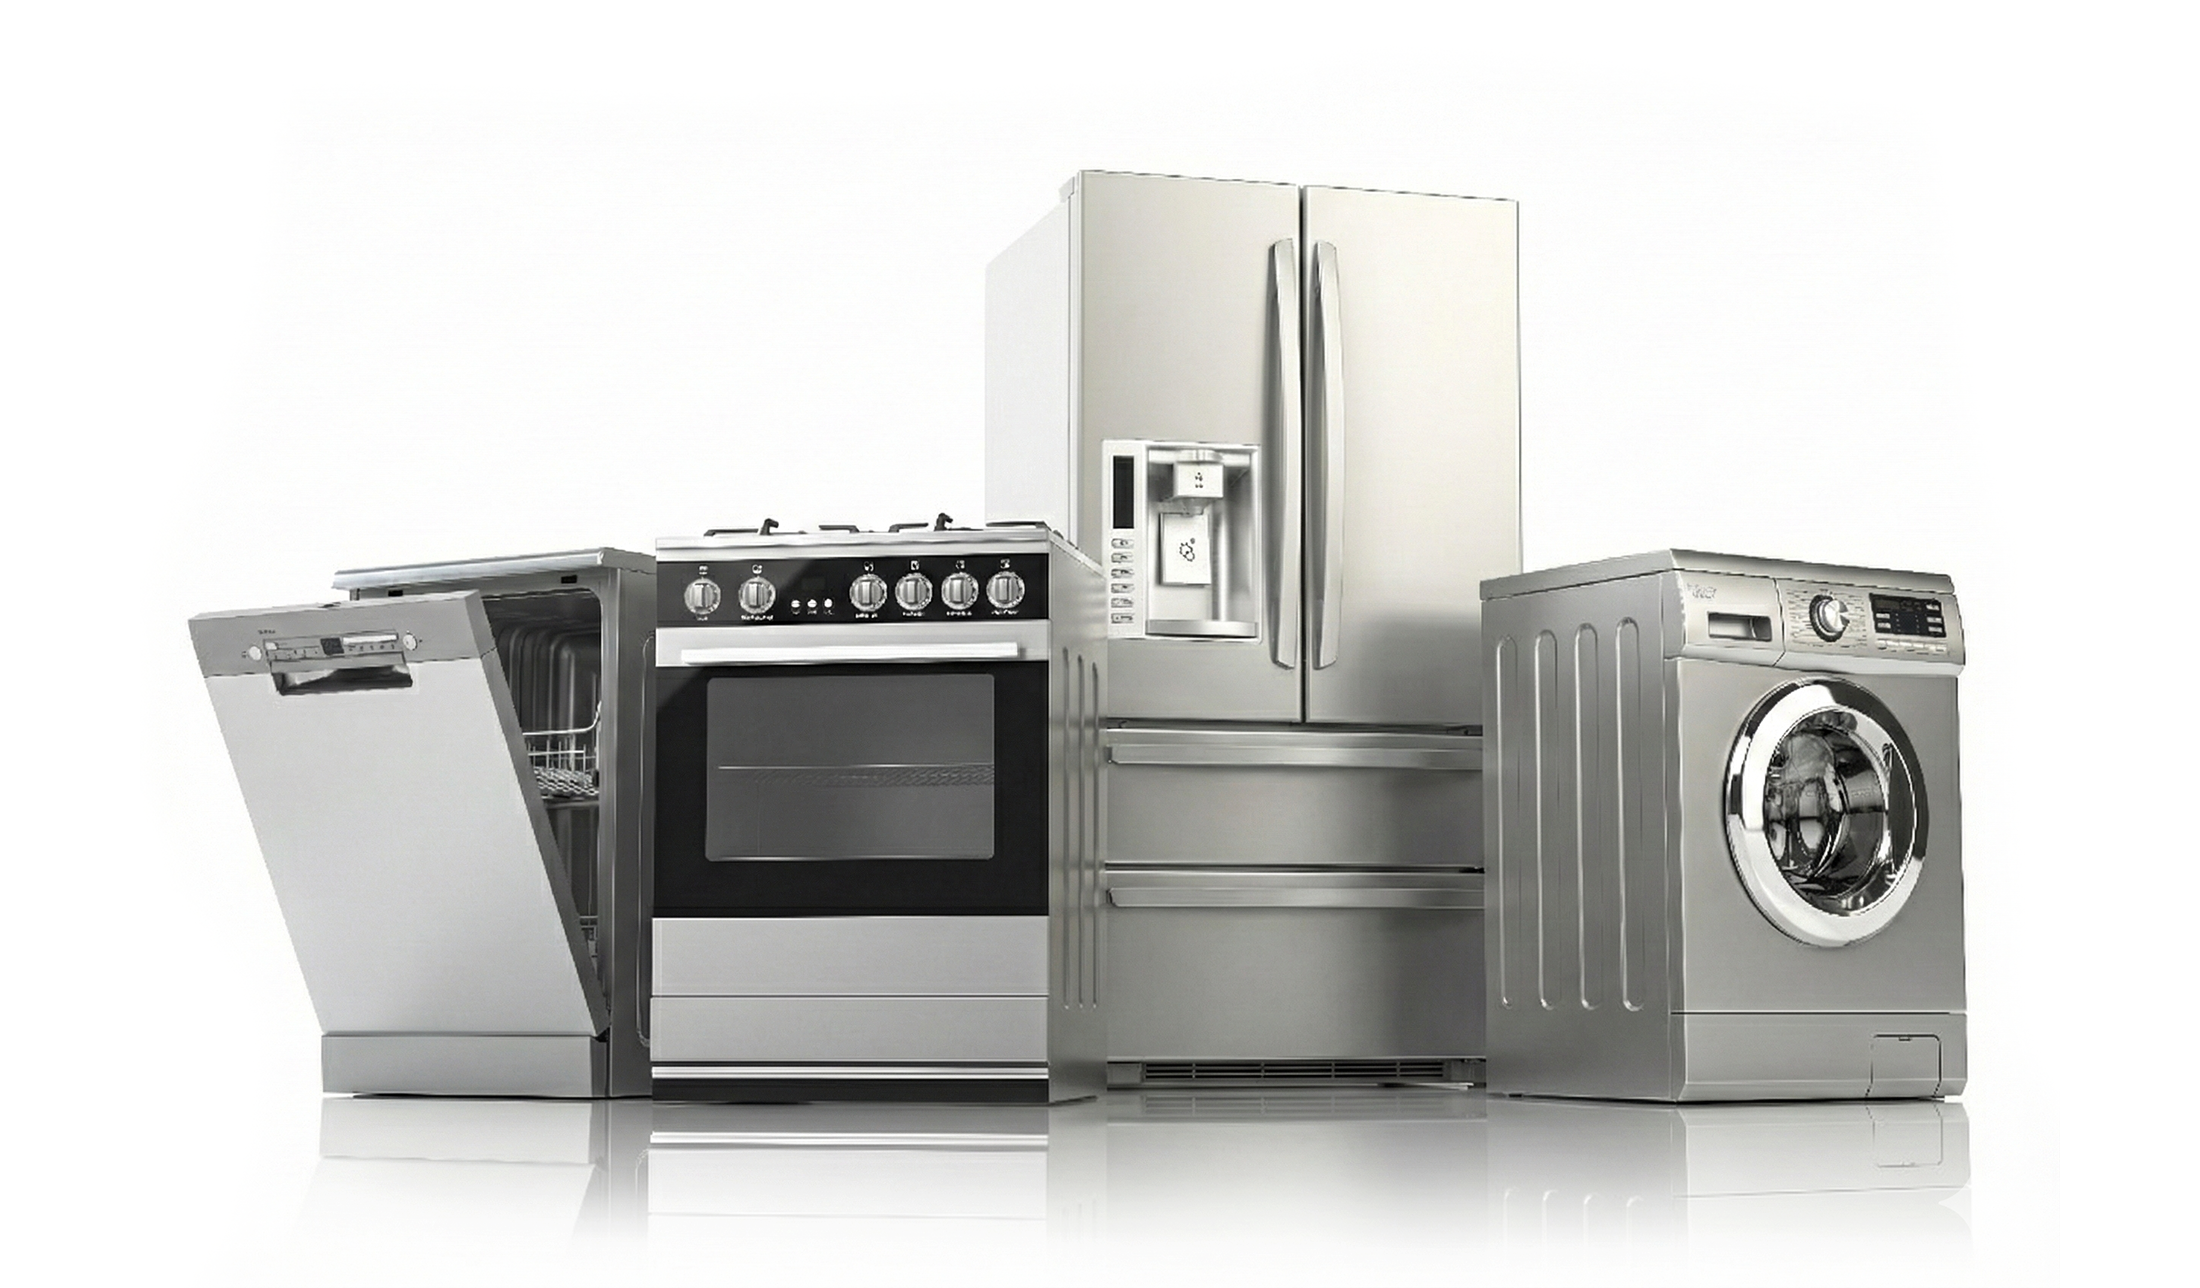
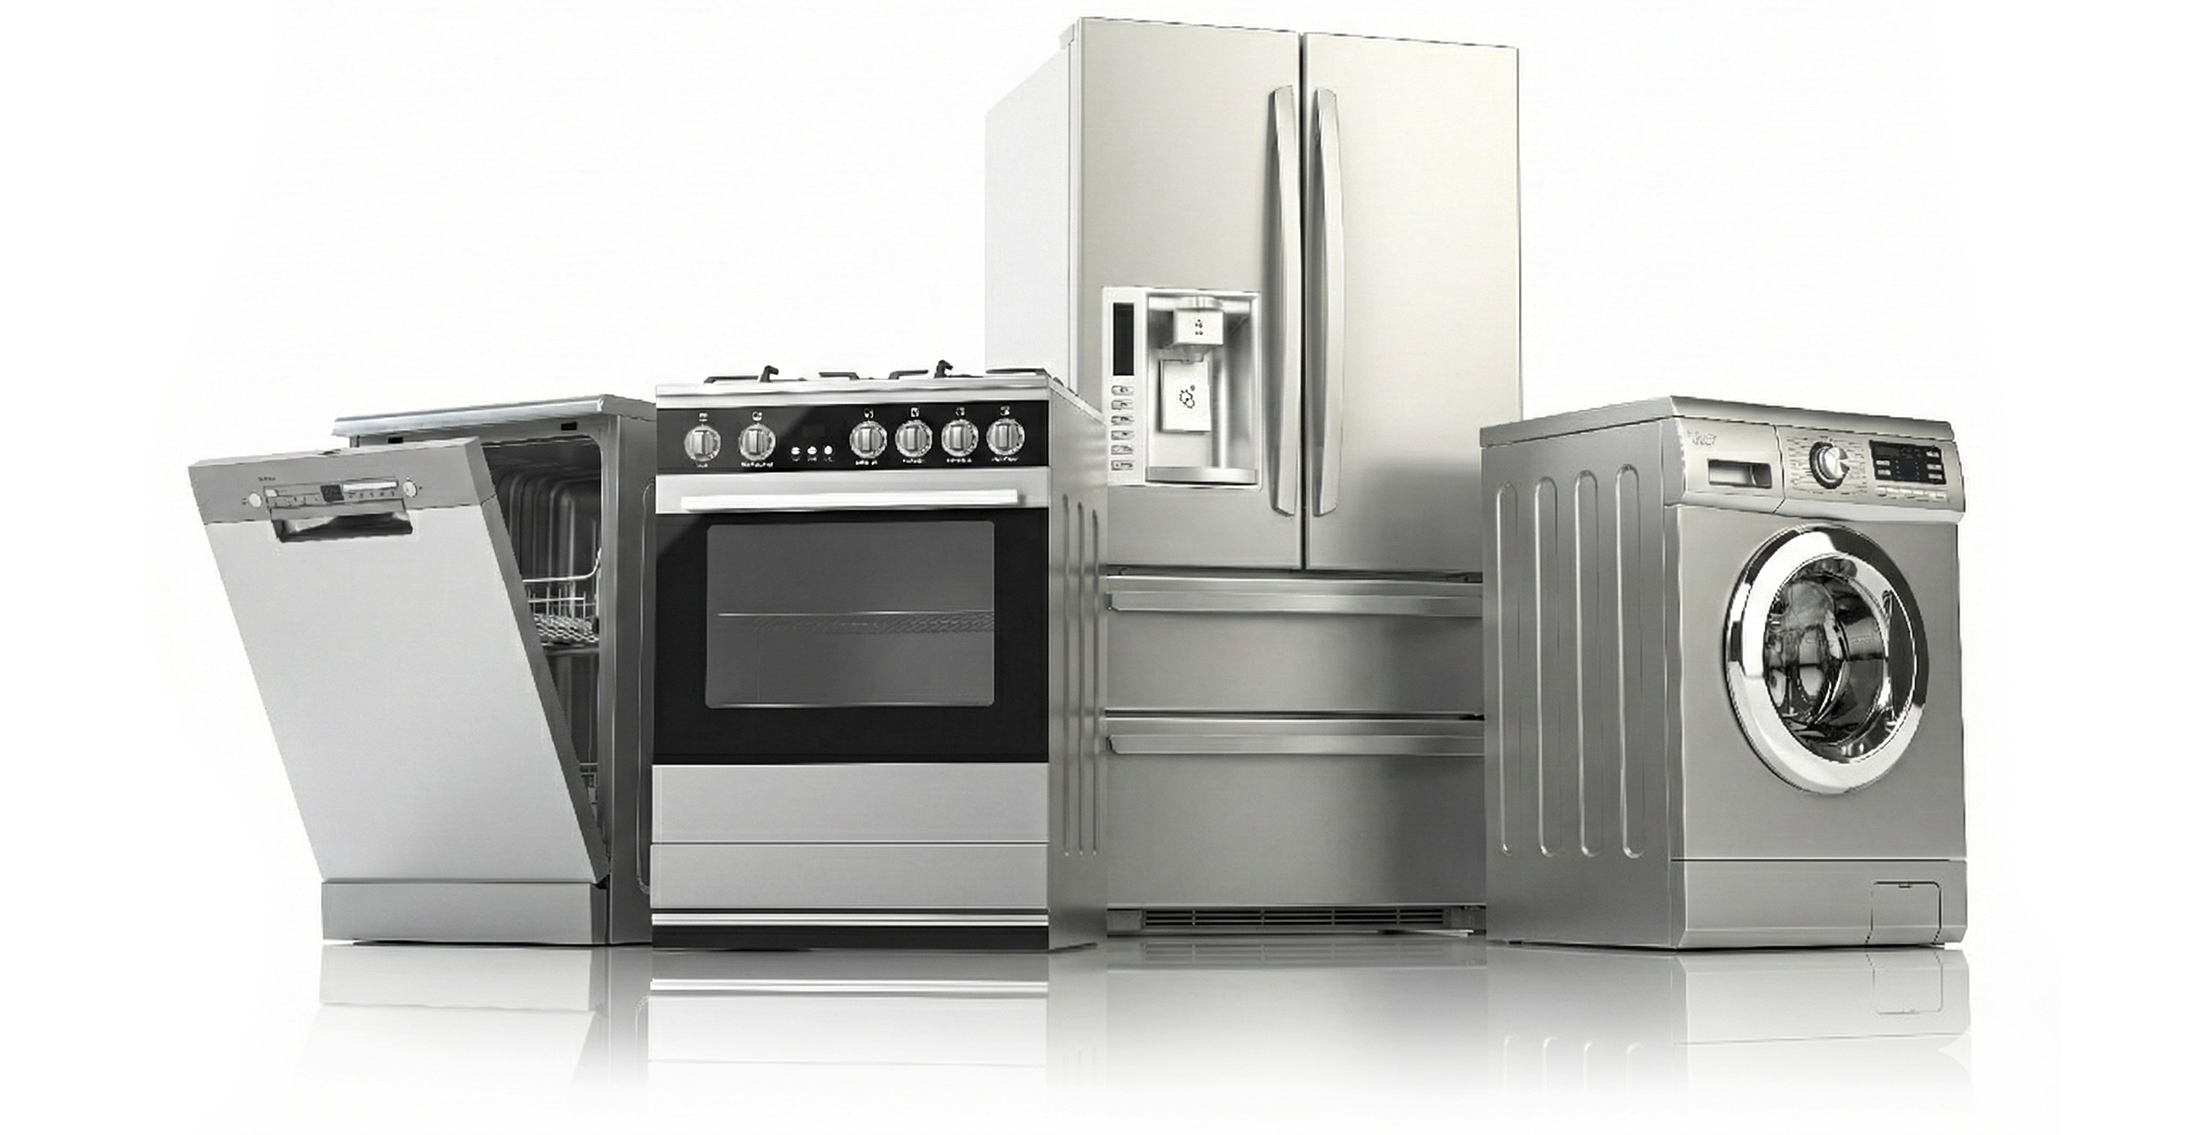
Update text labels for clarity and adjust layout styles for better responsiveness

Changed region(s): [[0.0618, 0.0, 0.8964, 0.8943]]

diff --git a/style.css b/style.css
@@ -49,7 +49,6 @@ body>* {
 
 .container {
     max-width: 1920px;
-    margin-right: 2.5rem;
     padding: 0 2.5rem;
 }
 
@@ -74,7 +73,7 @@ body>* {
     display: flex;
     align-items: center;
     justify-content: space-between;
-    padding: 0.75rem 1rem;
+    padding: 1.25rem 1rem;
 }
 
 .logo-container {
@@ -137,7 +136,6 @@ body>* {
 }
 
 .phone-link {
-    display: none;
     align-items: center;
     gap: 0.5rem;
     font-weight: 700;
@@ -181,7 +179,7 @@ body>* {
     display: flex;
     flex-direction: column;
     text-align: right;
-    padding-top: 6rem;
+    padding-top: 7.5rem;
     padding-bottom: 2rem;
 }
 
@@ -190,7 +188,7 @@ body>* {
     height: auto;
     object-fit: cover;
     display: block;
-    margin: -150px auto 0;
+    margin: 0 auto;
 }
 
 .hero-content {
@@ -772,23 +770,13 @@ body>* {
     }
 }
 
-@media (max-width: 370px) {
+@media (max-width: 549px) {
     .theme-toggle {
         display: none;
     }
 
     .hero-title {
         font-size: 2.75rem;
-    }
-
-    .hero-image {
-        margin: 0 auto 0;
-    }
-}
-
-@media (max-width: 540px) {
-    .hero-image {
-        margin: 0 auto 0;
     }
 
     .cta-btn {
@@ -901,12 +889,9 @@ body>* {
         font-size: 1.2rem;
     }
 
-    .hero-image {
-        margin: -70px auto 0;
-    }
-
     .hero-cta {
         padding: 0.75rem 1rem;
         font-size: 1.25rem;
+        margin-bottom: 1rem;
     }
 }

diff --git a/index.html b/index.html
@@ -89,14 +89,14 @@
                             <span class="counter-num" data-target="9.9" data-decimal="true">0</span>
                             <span class="text-primary">/10</span>
                         </div>
-                        <p class="stat-label">דירוג ממוצע</p>
+                        <p class="stat-label">דירוג ממצוע במידרג</p>
                     </div>
                     <div>
                         <div class="stat-number">
                             <span class="counter-num" data-target="825">0</span>
                             <span class="counter-plus">+</span>
                         </div>
-                        <p class="stat-label">חוות דעת</p>
+                        <p class="stat-label">חוות דעת במידרג</p>
                     </div>
                 </div>
             </div>
